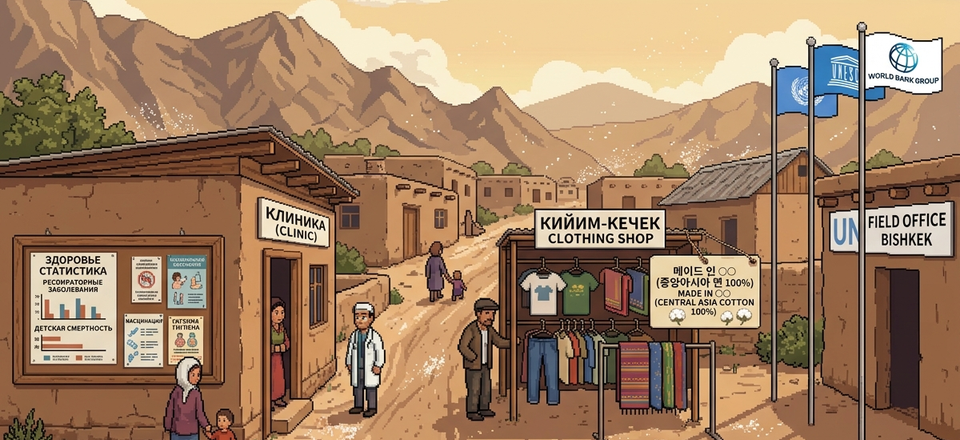
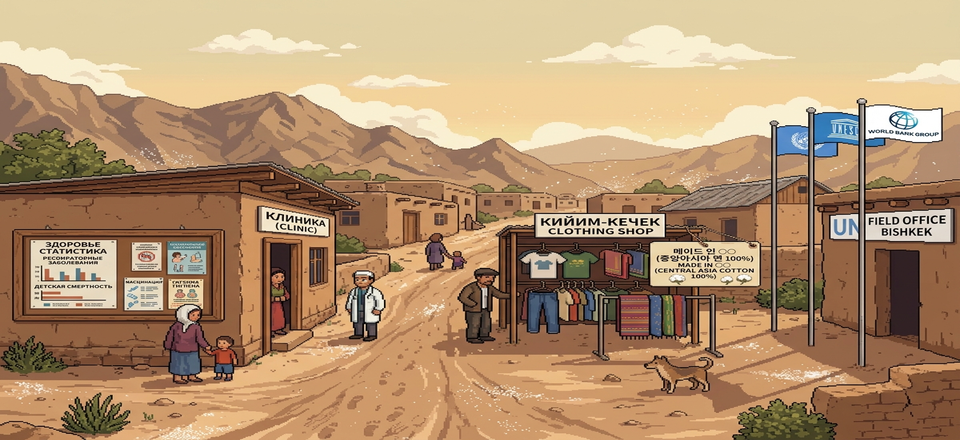
조사 사진 짤림 픽스 + 물체 라벨 위치 통일 (NPC 명찰처럼 아래로)
1) 조사 사진 짤림 (9장 모두)
원본 1200x896 (4:3)을 표시 영역 960x440 (2.18:1)에 cover-crop
하면서 위·아래 138px 잘림 → 사용자가 사진 상하단에 그린 단서
들이 화면 밖으로 사라짐.

수정: PNG를 force-resize (비율 무시)로 재생성. 약간 세로 압축
되지만 모든 요소가 화면 안에 들어옴. 단서 좌표(cases.js spot)는
이미 960x440 기준이라 그대로 정확히 매칭.

2) 물체 라벨 위치 통일
이전엔 NPC 명찰은 cz.y+6 (물체 아래), 포털·우편함·의자 라벨은
y-30/-36 (물체 위)로 일관성 없음.

수정 (모두 물체 아래로):
- portal '아랄해/키이우/팔레스타인 조사' 11*TILE-30 → 11*TILE+22
- mailbox '보고서 송부'                11*TILE-36 → 11*TILE+22
- chair '성찰의 의자'                  chairY-36  → chairY+28

이제 안내인·시민·포털·우편함·의자 모두 물체 발 아래에
명찰/라벨 표시 — 시각적 일관성.

SW 캐시 v63 → v64

diff --git a/src/game.js b/src/game.js
@@ -3273,7 +3273,8 @@ class WorldScene extends Phaser.Scene {
     const portalLabel = isUkraine ? '키이우 조사'
                       : isPalestine ? '팔레스타인 조사'
                       : '아랄해 조사';
-    this.add.text(4 * TILE, 11 * TILE - 30, portalLabel, {
+    // 라벨은 NPC 명찰과 동일하게 물체 아래에 표시 (시각 통일)
+    this.add.text(4 * TILE, 11 * TILE + 22, portalLabel, {
       fontFamily: FONT, fontSize: '12px', color: '#ffe082',
       backgroundColor: '#00000088', padding: { x: 4, y: 2 }
     }).setOrigin(0.5).setDepth(2000);
@@ -3291,7 +3292,7 @@ class WorldScene extends Phaser.Scene {
     // UN 우편함 (편지 쓰기 입구) — scale 고정 (꿈틀 제거)
     this.mailbox = this.physics.add.staticImage(12 * TILE, 11 * TILE, 'mailbox');
     this.mailbox.setDepth(this.mailbox.y);
-    this.add.text(12 * TILE, 11 * TILE - 36, '보고서 송부', {
+    this.add.text(12 * TILE, 11 * TILE + 22, '보고서 송부', {
       fontFamily: FONT, fontSize: '12px', color: '#cfe9ff',
       backgroundColor: '#00000088', padding: { x: 4, y: 2 }
     }).setOrigin(0.5).setDepth(2000);
@@ -3344,7 +3345,7 @@ class WorldScene extends Phaser.Scene {
     chairG.fillRect(chairX - 11, chairY - 17, 22, 2);
 
     // 라벨
-    this.add.text(chairX, chairY - 36, '🪞 성찰의 의자', {
+    this.add.text(chairX, chairY + 28, '🪞 성찰의 의자', {
       fontFamily: FONT, fontSize: '11px', color: '#ffe9b8',
       backgroundColor: '#00000088', padding: { x: 4, y: 2 }
     }).setOrigin(0.5).setDepth(2000);

diff --git a/sw.js b/sw.js
@@ -1,4 +1,4 @@
-const CACHE = 'vanished-sea-v63';
+const CACHE = 'vanished-sea-v64';
 const PRECACHE = [
   './',
   './index.html',
